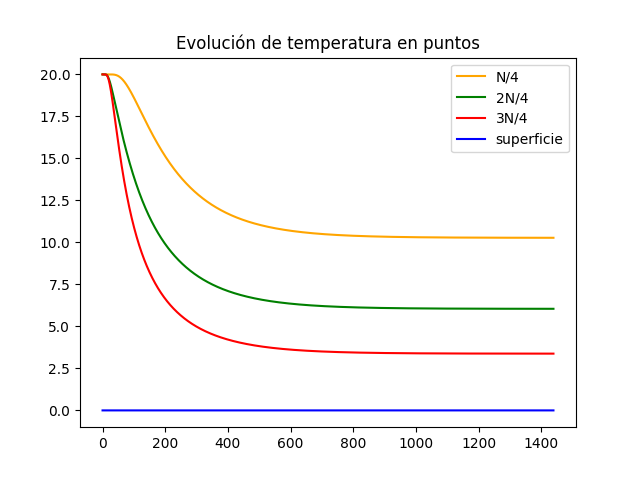
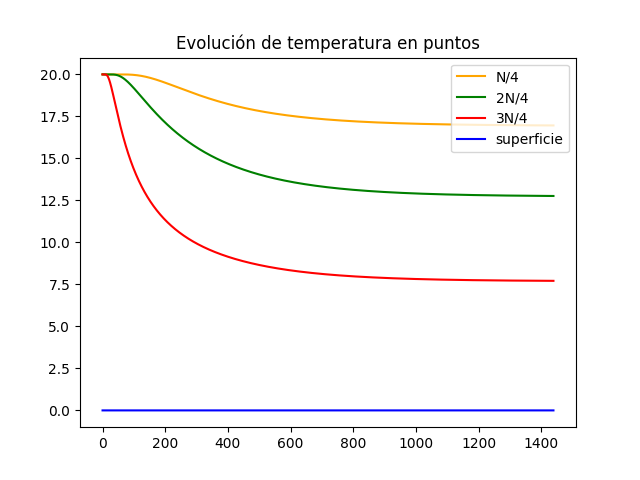
Casos arreglados los CB + Imagenes

diff --git a/caso7/caso_7.py b/caso7/caso_7.py
@@ -1,0 +1,182 @@
+#Caso 7
+
+from matplotlib.pylab import *
+#from matplotlib.pylab import cmap
+import numpy as np
+
+# Definimos geometria
+
+a = 1 #alto
+b = 1 #ancho
+Nx = 30 #numero de intervalos en x
+Ny = 30 # numero de intervalos en y
+
+dx = b/Nx
+dy = a/Ny
+# dx y dy tienen qye ser iguales!
+
+if dx != dy:
+    print("ERRORR  dx no es igual a dy")
+    exit(-1)
+
+h = dx
+
+# Funcion de conveneniencia para calcular las coordenadas del punto (i,j)
+def coords(i,j): return(dx*i, dy*j)
+x,y = coords(4,2)
+
+
+def imshowbien(u):
+	imshow(u.T[Nx::-1,:], cmap=cm.coolwarm)
+	cbar=colorbar(extend='both', cmap=cm.coolwarm)
+	ticks = arange(0,35,5)
+	ticks_Text=["{}".format(deg) for deg in ticks]
+	cbar.set_ticks(ticks)
+	cbar.set_ticklabels(ticks_Text)
+	clim(0,30)
+
+	xlabel('b')
+	ylabel('a')
+	xTicks_N = arange(0,Nx+1,3)
+	yTicks_N = arange(0,Ny+1,3)
+	xTicks = [coords(i,0)[0] for i in xTicks_N]
+	yTicks = [coords(0,i)[1] for i in yTicks_N]
+	xTicks_Text=["{0:.2f}".format(tick) for tick in xTicks]
+	yTicks_Text=["{0:.2f}".format(tick) for tick in yTicks]
+
+	xticks(xTicks_N, xTicks_Text, rotation='vertical')
+	yticks(yTicks_N, yTicks_Text)
+	margins(0.2)
+	subplots_adjust(bottom=0.15)
+
+
+u_k = zeros((Nx+1, Ny+1), dtype=double)
+u_km1 = zeros((Nx+1, Ny+1), dtype=double)
+
+# Condicion de borde inicial
+u_k[:,:] = 20 #en todas las celdas
+
+#Parametros
+dt = 0.01    # s
+K = 79.5     # m^2/s
+c = 450      # J/Kg*C
+rho = 7800   # Kg/m^3
+alpha = (K*dt)/(c*rho*(dx**2))
+
+# Loop en el tiempo
+minuto = 60
+hora = 60*minuto
+dia = 24*hora
+
+dt = 1*minuto
+dnext_t = 0.5*hora
+
+next_t = 0
+framenum = 0
+
+T = 1*dia
+Days = 4*T # Cuantos dias quiero simunlar
+
+graf = np.int(Days/dt)
+punto_1 = np.zeros(graf)
+punto_2 = np.zeros(graf)
+punto_3 = np.zeros(graf)
+superficie = np.zeros(graf)
+T_ambiente = np.zeros(graf)
+
+def truncate(n, decimals=0):
+    multiplier = 10**decimals
+    return int(n*multiplier)/multiplier
+
+# Loops en el tiempo
+for k in range(int32(Days/dt)):
+    t =dt*(k+1)
+    dias = truncate(t/dia,0)
+    horas = truncate((t-dias*dia)/hora,0)
+    minutos = truncate((t-dias*dia - horas*hora)/minuto,0)
+    titulo = "k = {0:05.0f}".format(k) + " t = {0:02.0f}d {1:02.0f}h {2:02.0f}m ".format(dias,horas,minutos)
+    
+    ambiente = 20. + 10*(np.sin((2*3.14/T)*t))
+    # CB esenciales, se repiten en cada iteracion
+    u_k[0, :] = u_k[1,:] - 0*dx        #izq
+    u_k[:, 0] = u_k[:,1] - 0*dx        #inf
+    u_k[:, -1] = ambiente               #sup
+    u_k[-1,:] = u_k[-2,:] - 0*dx        #der
+
+    # Loop en el espadio i = 1....n-1
+    for i in range (1,Nx):
+        for j in range(1,Ny):
+            
+            #Algoritmo de diferencias finitas  2-D para difusion
+
+            #Laplaciano
+            nabla_u_k = (u_k[i-1,j] + u_k[i+1,j] + u_k[i,j-1] + u_k[i,j+1] -4*u_k[i,j]) /h**2
+            
+            #Forward Euler
+            u_km1[i,j] = u_k[i,j] + alpha*nabla_u_k
+
+    # Avanzar la solucion a k+1
+    u_k = u_km1
+    
+    # CB denuevo para asegurar cumplimiento
+    u_k[0, :] = u_k[1,:] - 0*dx        #izq
+    u_k[:, 0] = u_k[:,1] - 0*dx        #inf
+    u_k[:, -1] = ambiente               #sup
+    u_k[-1,:] = u_k[-2,:] - 0*dx        #der
+
+    # Puntos para graficar evolución
+    punto_1[k] = u_k[int(Nx/2),int(Ny/4)]
+    punto_2[k] = u_k[int(Nx/2),int(Ny/2)]
+    punto_3[k] = u_k[int(Nx/2),int(3*Ny/4)]
+    superficie[k] = u_k[int(Nx/2),-1]
+    T_ambiente[k] = ambiente
+
+    #Grafico en d_next
+    if t >= next_t:
+        figure(1)
+        imshowbien(u_k)
+        title(titulo)
+        savefig("caso7/frame_{0:04.0f}.png".format(framenum))
+        framenum +=1
+        next_t += dnext_t
+        close(1)
+
+show()
+
+# ---------------------------------
+import glob
+from PIL import Image
+import re
+
+def atoi(text):
+    return int(text) if text.isdigit() else text
+
+def natural_keys(text):
+    return [atoi(c) for c in re.split(r"(\d+)", text)]
+
+# Funcion para el gif
+def gif(fp_in, fp_out):
+    listaImagenes = sorted(glob.glob(fp_in))
+    print("sorted(glob.glob(fp_in)): ", listaImagenes)
+    listaImagenes.sort(key=natural_keys)
+    print("listaImagenes: ", listaImagenes)
+    img, *imgs = [Image.open(f) for f in listaImagenes]
+    img.save(fp=fp_out, format="GIF", append_images=imgs, save_all=True, duration=150, loop=0)
+
+# GIF
+fp_in = "caso7/frame_*.png"
+fp_out = "caso7.gif"
+gif(fp_in, fp_out)
+
+# Grafico evolución de temperatura
+figure(2)
+t_evolucion = np.arange(0, int(Days/dt), 1)
+plot(t_evolucion, superficie, label='superficie', color= "blue")
+plot(t_evolucion, T_ambiente, '--',label='T° ambiente', color='black')
+plot(t_evolucion, punto_1, label='N/4', color= 'orange')
+plot(t_evolucion, punto_2, label='2N/4', color= 'green')
+plot(t_evolucion, punto_3, label='3N/4', color= "red")
+legend(loc="upper right")
+title("Evolución de temperatura en puntos")
+savefig(f"caso7/Grafico_Evolucion_caso7.png")
+show()

diff --git a/caso6/caso_6.py b/caso6/caso_6.py
@@ -1,4 +1,4 @@
-#Caso 5
+#Caso 6
 
 from matplotlib.pylab import *
 #from matplotlib.pylab import cmap
@@ -97,7 +97,7 @@ for k in range(int32(Days/dt)):
     
     # CB esenciales, se repiten en cada iteracion
     u_k[0, :] = 10                      #izq
-    u_k[:, 0] = u_k[:,-2] + 0*dx        #inf
+    u_k[:, 0] = u_k[:,1] + 0*dx        #inf
     u_k[:, -1] = u_k[:,-2] + 0*dx       #sup
     u_k[-1,:] = u_k[-2,:] + 0*dx                      # der
 
@@ -119,14 +119,14 @@ for k in range(int32(Days/dt)):
     
     # CB denuevo para asegurar cumplimiento
     u_k[0, :] = 10                      #izq
-    u_k[:, 0] = u_k[:,-2] + 0*dy        #inf
+    u_k[:, 0] = u_k[:,1] + 0*dy        #inf
     u_k[:, -1] = u_k[:,-2] + 0*dy       #sup
-    u_k[-1,:] = u_k[-2,:] + 0*dx                   # der
+    u_k[-1,:] = u_k[-2,:] + 0*dx        # der
 
     # Puntos para graficar evolución
-    punto_1[k] = u_k[int(Nx/2),int(Ny/2)]
-    punto_2[k] = u_k[int(Nx/2),int(3*Ny/4)]
-    punto_3[k] = u_k[int(3*Nx/4),int(3*Ny/4)]
+    punto_1[k] = u_k[int(Nx/2),int(Ny/4)]
+    punto_2[k] = u_k[int(Nx/2),int(Ny/2)]
+    punto_3[k] = u_k[int(Nx/2),int(3*Ny/4)]
     superficie[k] = u_k[int(Nx/2),-1]
 
     #Grafico en d_next
@@ -169,10 +169,10 @@ gif(fp_in, fp_out)
 # Grafico evolución de temperatura
 figure(2)
 t_evolucion = np.arange(0, int(Days/dt), 1)
+plot(t_evolucion, superficie, label='superficie', color= "blue")
 plot(t_evolucion, punto_1, label='N/4', color= 'orange')
 plot(t_evolucion, punto_2, label='2N/4', color= 'green')
 plot(t_evolucion, punto_3, label='3N/4', color= "red")
-plot(t_evolucion, superficie, label='superficie', color= "blue")
 legend(loc="upper right")
 title("Evolución de temperatura en puntos")
 savefig(f"caso6/Grafico_Evolucion_caso6.png")

diff --git a/caso5/caso_5.py b/caso5/caso_5.py
@@ -97,8 +97,8 @@ for k in range(int32(Days/dt)):
     
     # CB esenciales, se repiten en cada iteracion
     u_k[0, :] = 25                      #izq
-    u_k[:, 0] = u_k[:,-2] + 0*dx        #inf
-    u_k[:, -1] = u_k[:,-2] + 0*dx       #sup
+    u_k[:, 0] = u_k[:,1] - 0*dx        #inf
+    u_k[:, -1] = u_k[:,-2] - 0*dx       #sup
     u_k[-1,:] = 25                      # der
 
     
@@ -119,14 +119,14 @@ for k in range(int32(Days/dt)):
     
     # CB denuevo para asegurar cumplimiento
     u_k[0, :] = 25                      #izq
-    u_k[:, 0] = u_k[:,-2] + 0*dy        #inf
-    u_k[:, -1] = u_k[:,-2] + 0*dy       #sup
+    u_k[:, 0] = u_k[:,1] - 0*dy        #inf
+    u_k[:, -1] = u_k[:,-2] - 0*dy       #sup
     u_k[-1,:] = 25                      # der
 
     # Puntos para graficar evolución
-    punto_1[k] = u_k[int(Nx/2),int(Ny/2)]
-    punto_2[k] = u_k[int(Nx/2),int(3*Ny/4)]
-    punto_3[k] = u_k[int(3*Nx/4),int(3*Ny/4)]
+    punto_1[k] = u_k[int(Nx/2),int(Ny/4)]
+    punto_2[k] = u_k[int(Nx/2),int(Ny/2)]
+    punto_3[k] = u_k[int(Nx/2),int(3*Ny/4)]
     superficie[k] = u_k[int(Nx/2),-1]
     
     #Grafico en d_next
@@ -169,11 +169,11 @@ gif(fp_in, fp_out)
 # Grafico evolución de temperatura
 figure(2)
 t_evolucion = np.arange(0, int(Days/dt), 1)
+plot(t_evolucion, superficie, label='superficie', color= "blue")
 plot(t_evolucion, punto_1, label='N/4', color= 'orange')
 plot(t_evolucion, punto_2, label='2N/4', color= 'green')
 plot(t_evolucion, punto_3, label='3N/4', color= "red")
-plot(t_evolucion, superficie, label='superficie', color= "blue")
-legend(loc="upper right")
+legend(loc="lower right")
 title("Evolución de temperatura en puntos")
 savefig(f"caso5/Grafico_Evolucion_caso5.png")
 show()

diff --git a/caso3/caso_3.py b/caso3/caso_3.py
@@ -123,9 +123,9 @@ for k in range(int32(Days/dt)):
     u_k[-1,:] = 20                      # der
 
     # Puntos para graficar evolución
-    punto_1[k] = u_k[int(Nx/2),int(Ny/2)]
-    punto_2[k] = u_k[int(Nx/2),int(3*Ny/4)]
-    punto_3[k] = u_k[int(3*Nx/4),int(3*Ny/4)]
+    punto_1[k] = u_k[int(Nx/2),int(Ny/4)]
+    punto_2[k] = u_k[int(Nx/2),int(Ny/2)]
+    punto_3[k] = u_k[int(Nx/2),int(3*Ny/4)]
 
     #Grafico en d_next
     if t >= next_t:
@@ -174,5 +174,5 @@ plot(t_evolucion, punto_3, label='3N/4', color= "red")
 plot(t_evolucion,superficie , label='superficie', color= "blue")
 legend(loc="upper right")
 title("Evolución de temperatura en puntos")
-savefig(f"caso3/Grafico_Evolucion_caso2.png")
+savefig(f"caso3/Grafico_Evolucion_caso3.png")
 show()

diff --git a/caso4/caso_4.py b/caso4/caso_4.py
@@ -123,9 +123,9 @@ for k in range(int32(Days/dt)):
     u_k[-1,:] = u_k[-2,:] + 0*dx        # der
 
     # Puntos para graficar evolución
-    punto_1[k] = u_k[int(Nx/2),int(Ny/2)]
-    punto_2[k] = u_k[int(Nx/2),int(3*Ny/4)]
-    punto_3[k] = u_k[int(3*Nx/4),int(3*Ny/4)]
+    punto_1[k] = u_k[int(Nx/2),int(Ny/4)]
+    punto_2[k] = u_k[int(Nx/2),int(Ny/2)]
+    punto_3[k] = u_k[int(Nx/2),int(3*Ny/4)]
 
     #Grafico en d_next
     if t >= next_t:
@@ -174,5 +174,5 @@ plot(t_evolucion, punto_3, label='3N/4', color= "red")
 plot(t_evolucion,superficie , label='superficie', color= "blue")
 legend(loc="upper right")
 title("Evolución de temperatura en puntos")
-savefig(f"caso4/Grafico_Evolucion_caso2.png")
+savefig(f"caso4/Grafico_Evolucion_caso4.png")
 show()

diff --git a/caso2/caso_2.py b/caso2/caso_2.py
@@ -123,9 +123,9 @@ for k in range(int32(Days/dt)):
     u_k[-1,:] = u_k[-2,:] + 0*dx        # der
 
     # Puntos para graficar evolución
-    punto_1[k] = u_k[int(Nx/2),int(Ny/2)]
-    punto_2[k] = u_k[int(Nx/2),int(3*Ny/4)]
-    punto_3[k] = u_k[int(3*Nx/4),int(3*Ny/4)]
+    punto_1[k] = u_k[int(Nx/2),int(Ny/4)]
+    punto_2[k] = u_k[int(Ny/2),int(Ny/2)]
+    punto_3[k] = u_k[int(Nx/2),int(3*Ny/4)]
 
     #Grafico en d_next
     if t >= next_t:

diff --git a/caso1/caso_1.py b/caso1/caso_1.py
@@ -125,7 +125,7 @@ for k in range(int32(Days/dt)):
     # Puntos para graficar evolución
     punto_1[k] = u_k[int(Nx/2),int(Ny/2)]
     punto_2[k] = u_k[int(Nx/2),int(3*Ny/4)]
-    punto_3[k] = u_k[int(3*Nx/4),int(3*Ny/4)]
+    punto_3[k] = u_k[int(Nx/2),int(3*Ny/4)]
 
     #Grafico en d_next
     if t >= next_t:
